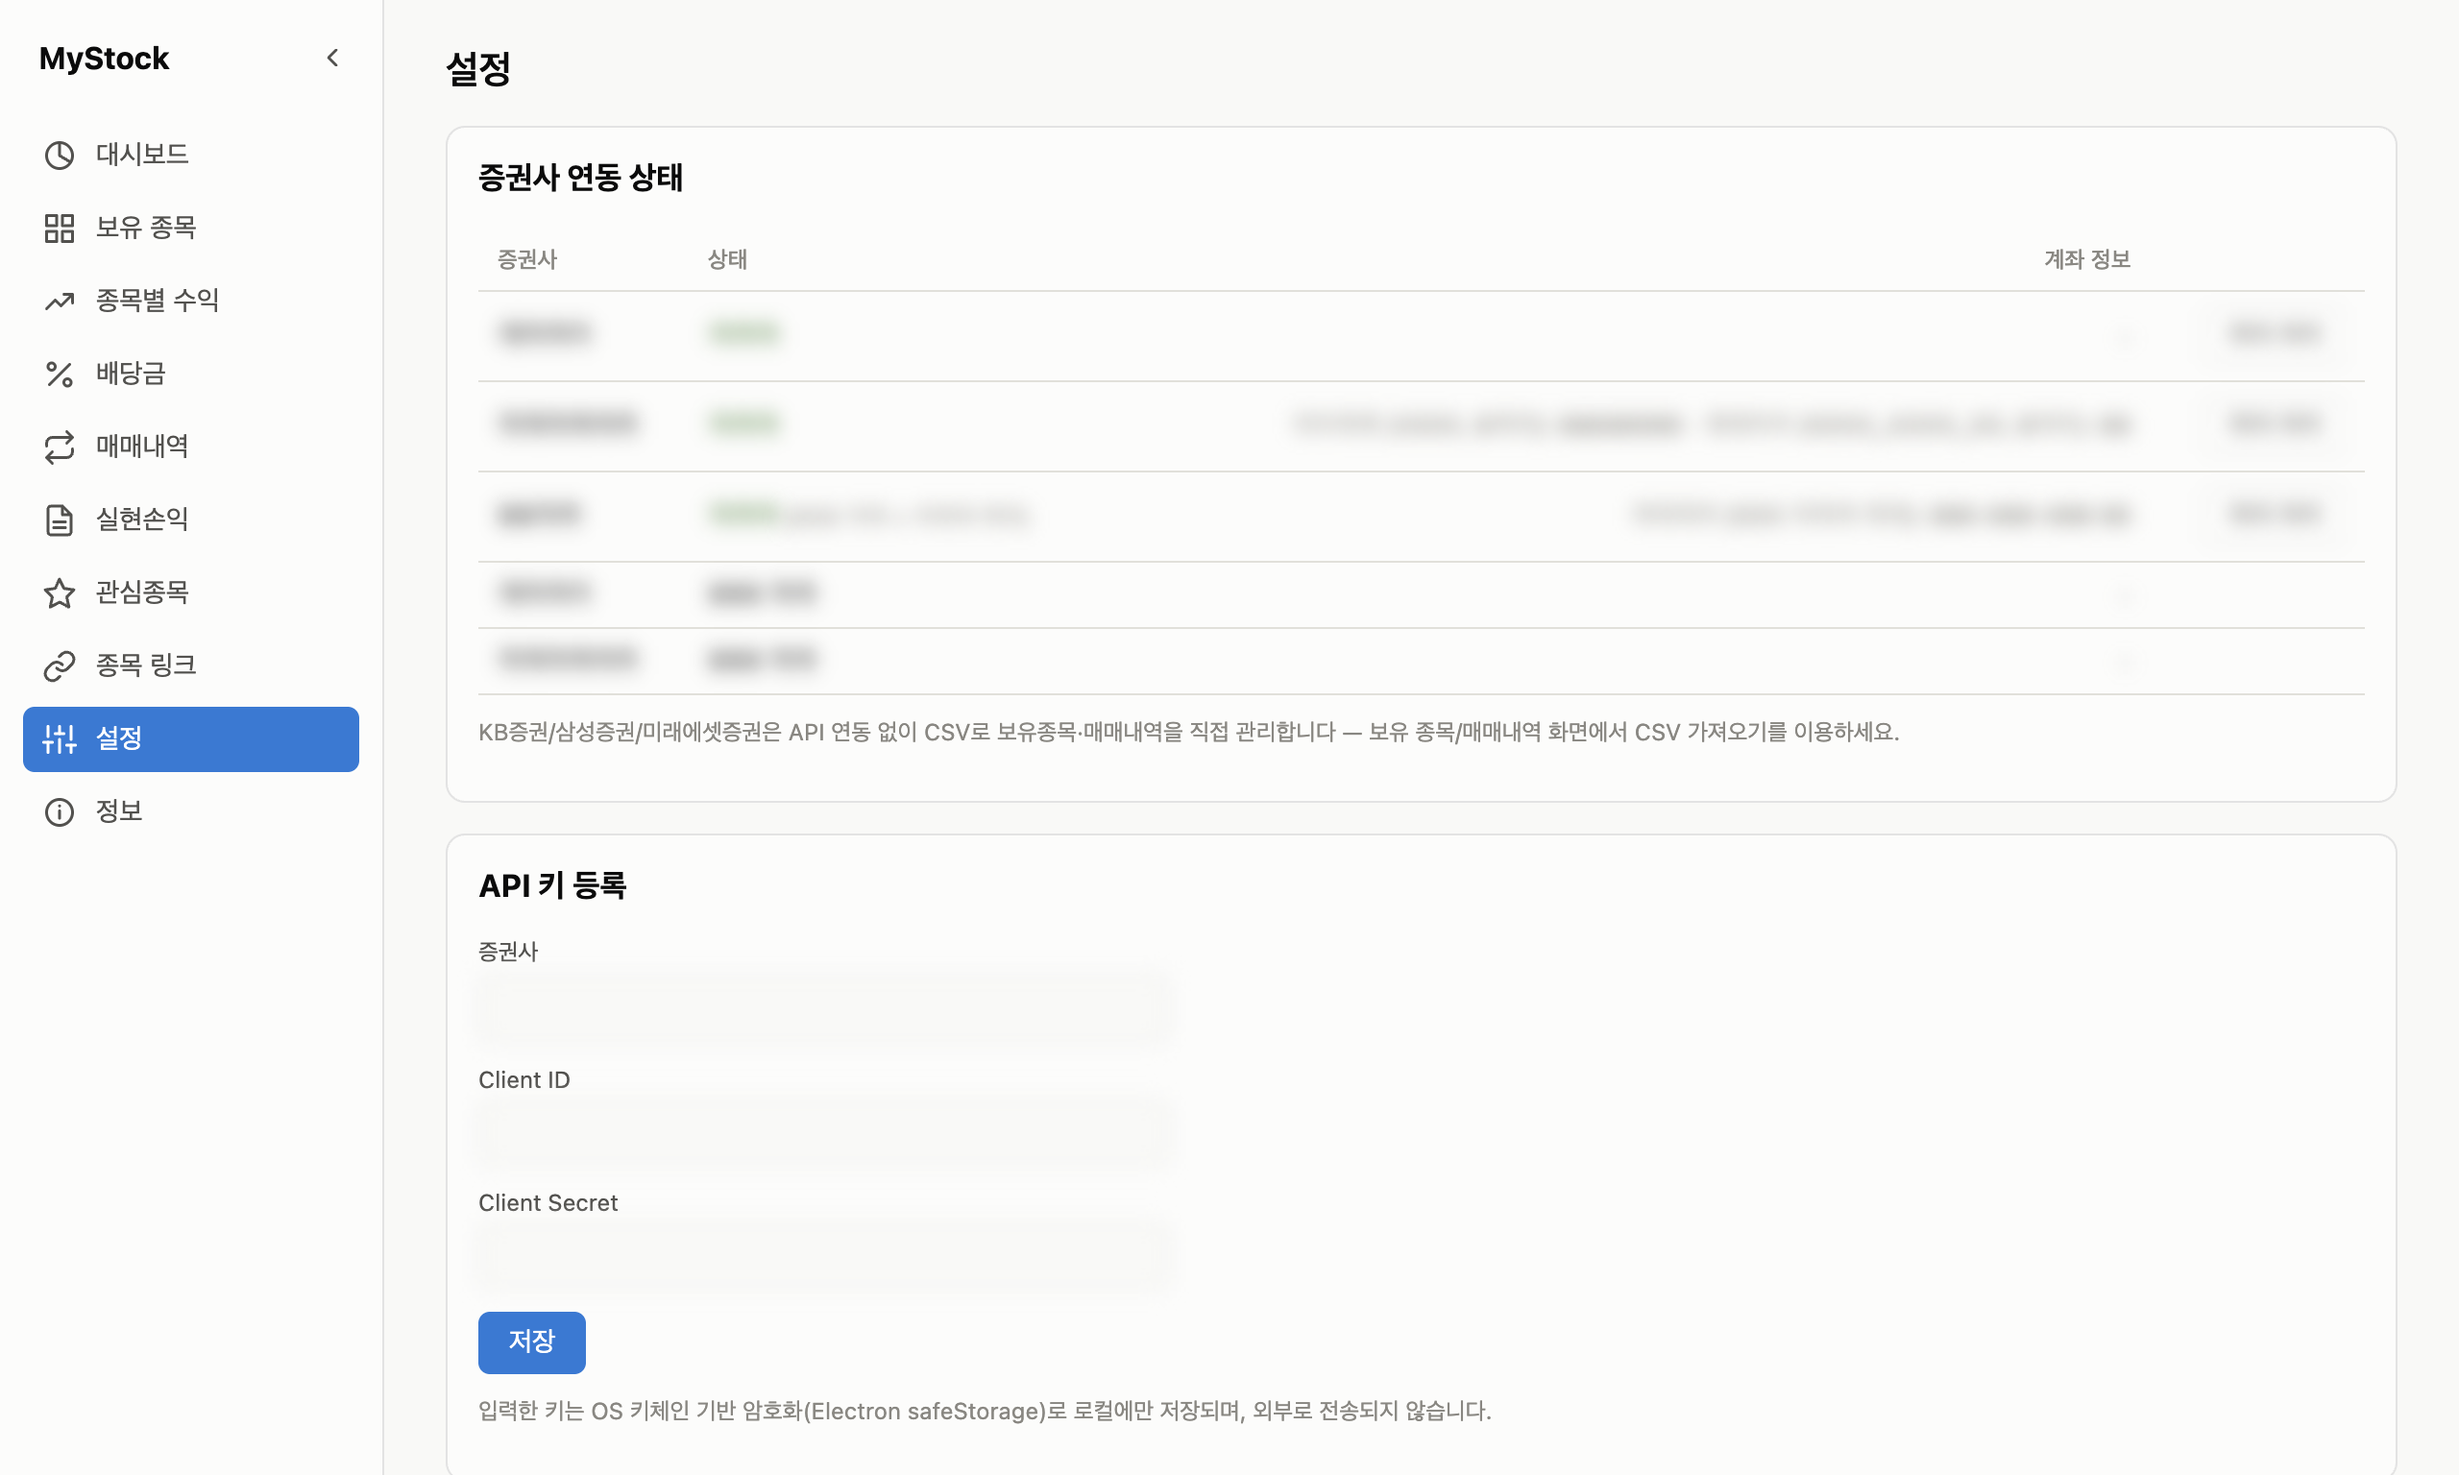
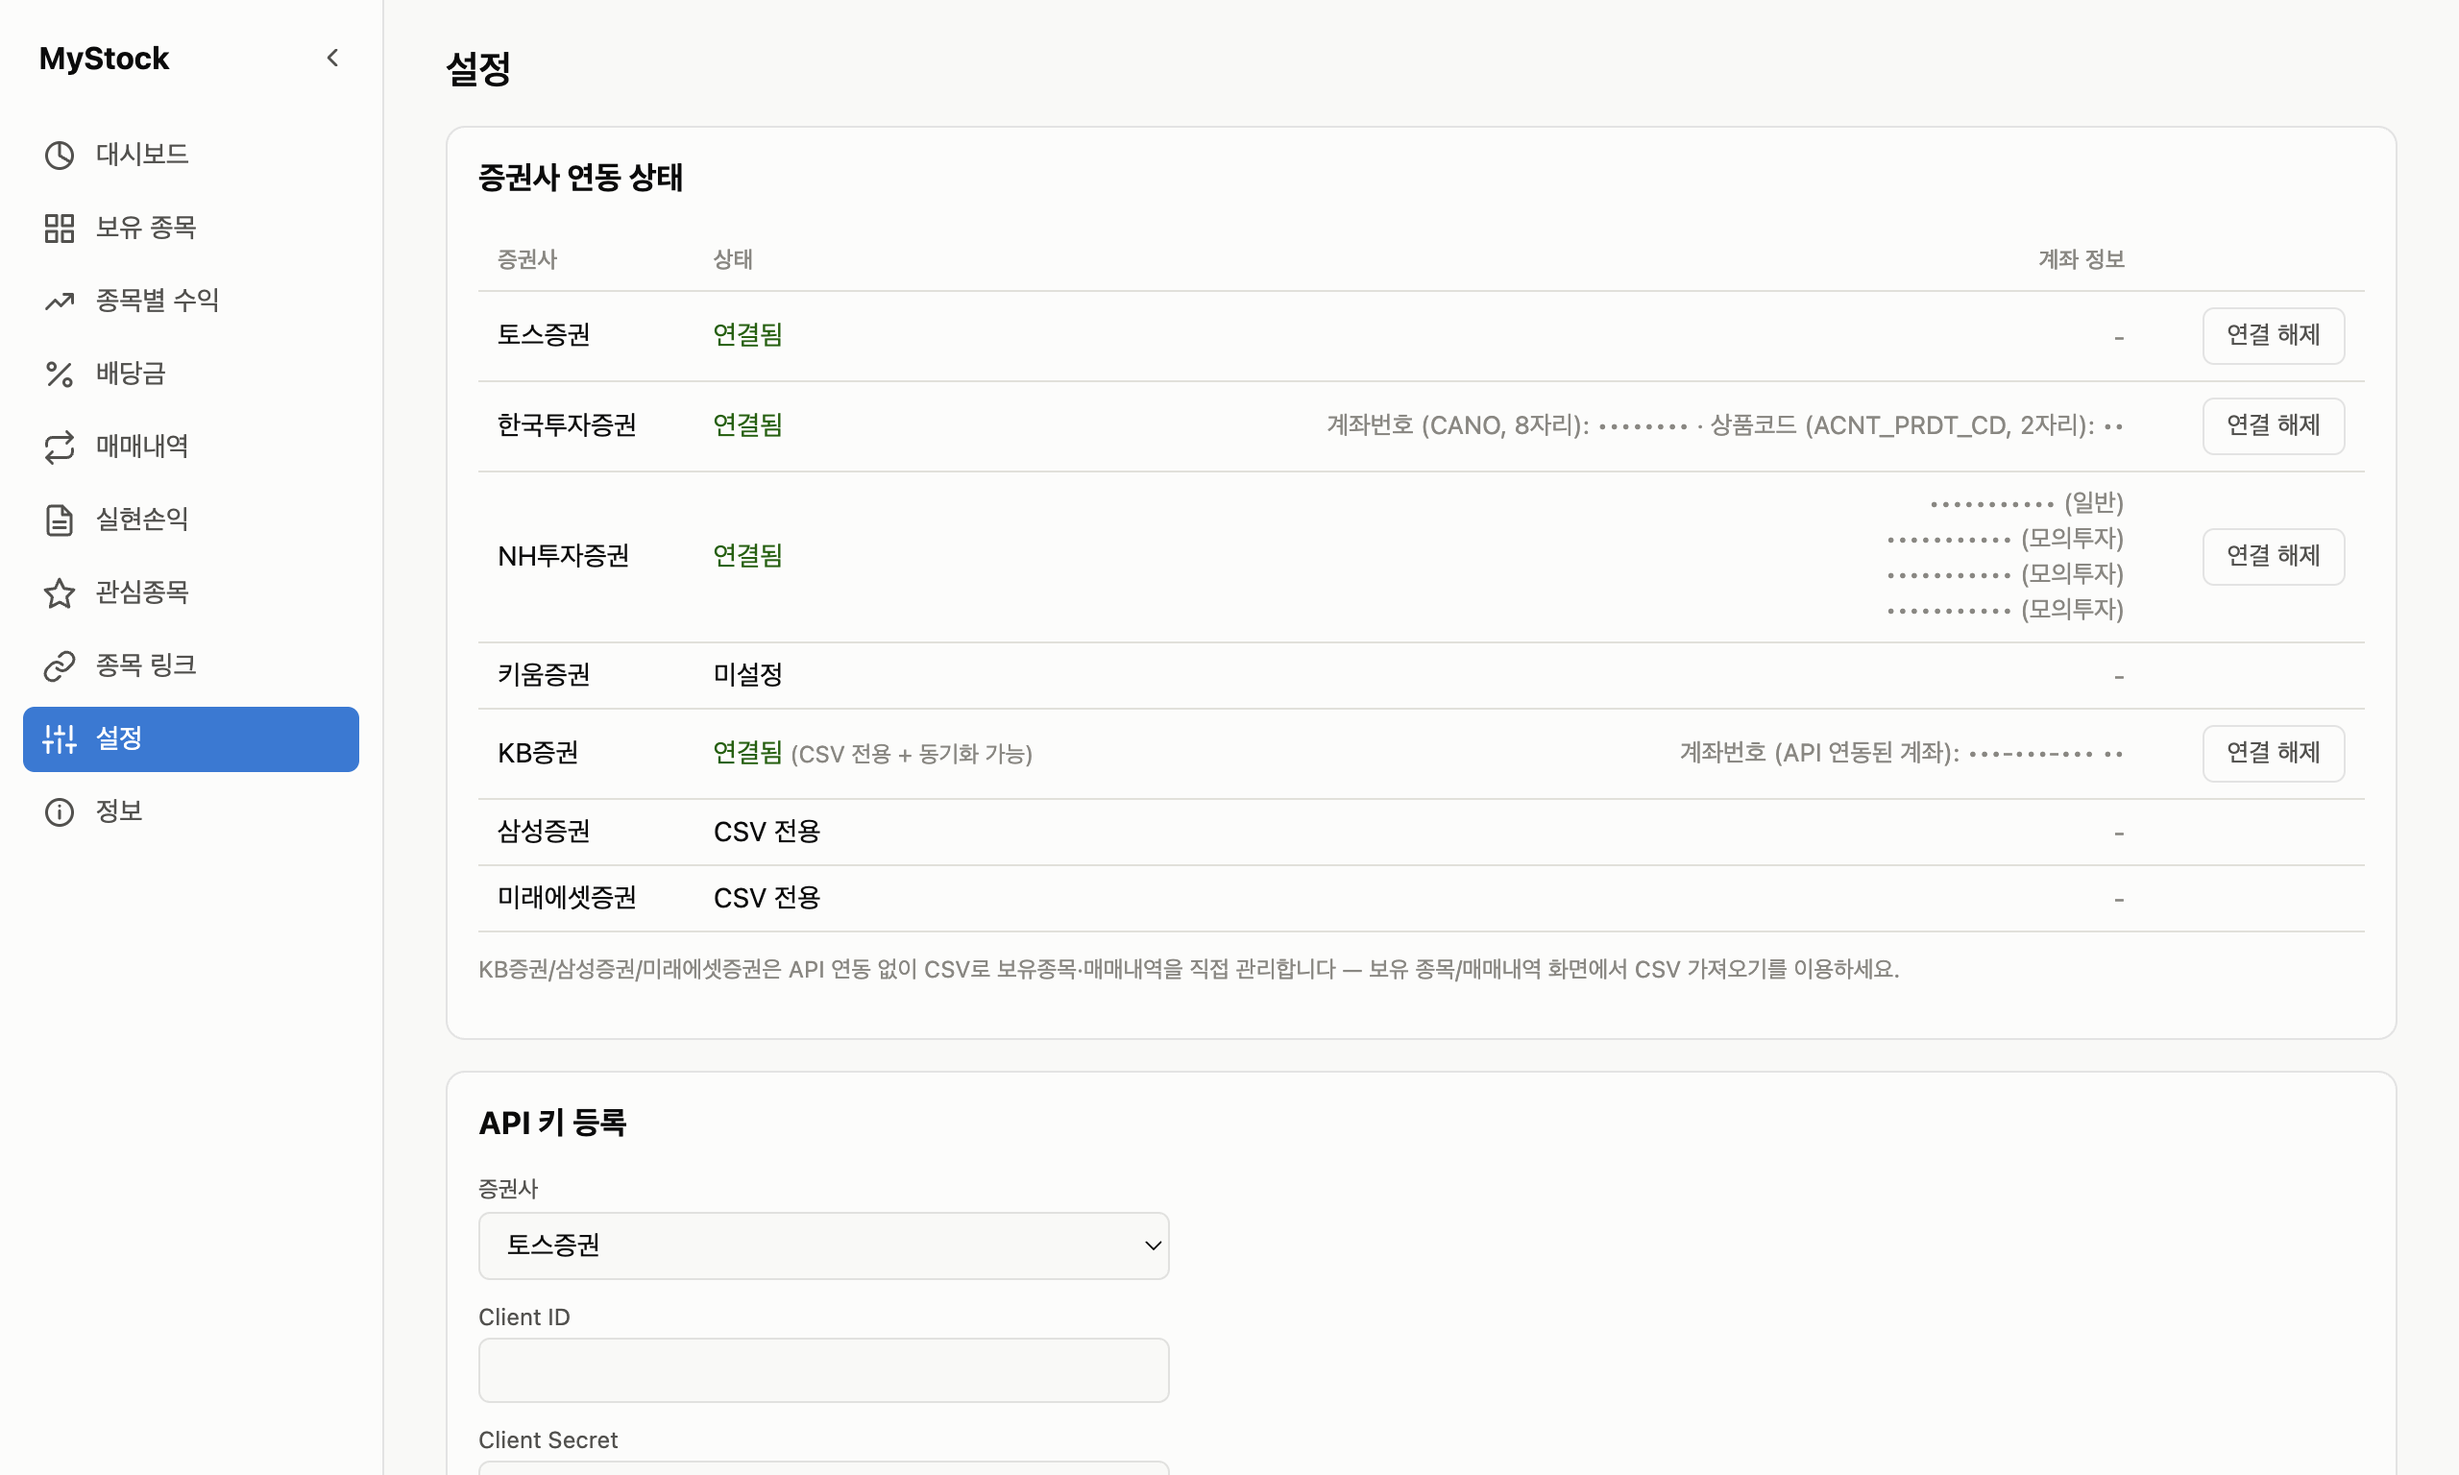
docs: 매뉴얼 설정 화면 스크린샷 갱신·증권사 조회 문제 해결 추가
- 09-settings.png: 증권사 연동 상태에 NH투자증권·키움증권 줄, NH 실전·모의투자 계좌 표시가 보이게 다시 촬영
  (데이터 사본 인스턴스, 계좌번호 숫자를 가짜 문자로 바꾼 뒤 OCR로 실제 번호·5자리 이상 숫자가 안 읽히는 것 확인)
- 12장 '증권사 조회가 안 될 때': 토스 허용 IP, 키움 IP 등록(8010)·키 오류(8001·8002), NH 보안 알림

diff --git a/doc/user-manual.md b/doc/user-manual.md
@@ -506,6 +506,18 @@ MyStock의 데이터는 이 컴퓨터에만 저장됩니다. PC를 바꾸거나 
 | Linux: AppImage가 실행되지 않음 | `chmod +x`, FUSE 오류면 `libfuse2`/`libfuse2t64` 설치 ([자세히](#linux)) |
 | 증권사 조회가 갑자기 실패함(새 버전 설치 후) | macOS 키체인 접근을 거부했을 수 있습니다. **설정 → API 키 등록**에서 키를 다시 저장하세요. |
 
+### 증권사 조회가 안 될 때 (IP 등록·보안 알림)
+
+증권사마다 API를 쓸 수 있는 PC를 IP로 제한하거나, 접속할 때 알림을 보냅니다. 화면에 뜨는 오류 문구에 증권사 오류 코드가 함께 나옵니다.
+
+| 증권사 | 증상 | 해결 |
+|---|---|---|
+| 토스증권 | 보유 종목·계좌 조회가 실패함(허용되지 않은 IP) | 토스증권 WTS의 **설정 > Open API > 허용 IP 관리**에 지금 PC의 공인 IP를 등록합니다. 집 인터넷처럼 IP가 바뀌는 환경이면 바뀔 때마다 다시 등록하세요. |
+| 키움증권 | 조회가 실패하고 오류 코드 **8010**(토큰을 받은 IP와 다름)이나 IP 관련 문구가 보임 | 키움 OpenAPI 포털의 **계좌 APP Key 관리**에서 지금 PC의 IP를 추가합니다(여러 개 등록 가능). IP가 바뀌면 앱이 토큰을 자동으로 다시 받지만, 포털에 없는 IP면 계속 실패합니다. 오류 코드 **8001·8002**는 앱키·시크릿키가 틀린 경우라 설정에서 다시 저장하세요. ⚠ 키움 연동은 아직 실제 계좌로 확인 전이라, 위에 없는 오류가 나면 알려 주세요. |
+| NH투자증권 | NH에서 **보안 알림**(접근 토큰 발급 알림)이 옴 | 정상입니다. NH는 접근 토큰을 새로 받을 때마다 알림을 보냅니다. MyStock은 토큰을 24시간 저장해 재사용하므로 보통 하루 한 번 정도 옵니다. 앱키를 바꾸면 새 토큰을 받으면서 한 번 더 옵니다. 내가 앱을 쓰지 않았는데 알림이 오면 NH 포털에서 앱키를 재발급하세요. |
+
+> 지금 PC의 공인 IP는 브라우저에서 "내 IP"를 검색하면 확인할 수 있습니다.
+
 ### "환율 미적용"이 보일 때
 실시간 환율을 가져오지 못해 달러 금액을 원화로 합치지 못한 것입니다. **설정 → USD/KRW 환율**에 환율을 직접 입력하세요.
 
